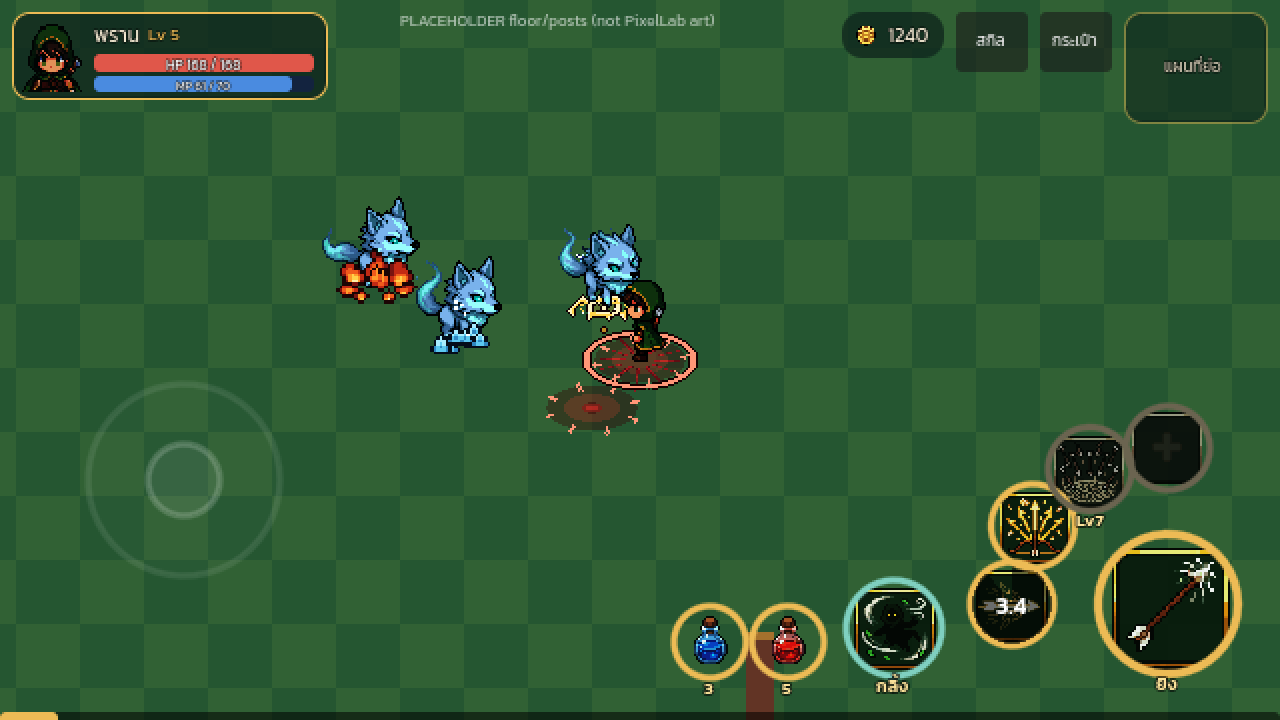
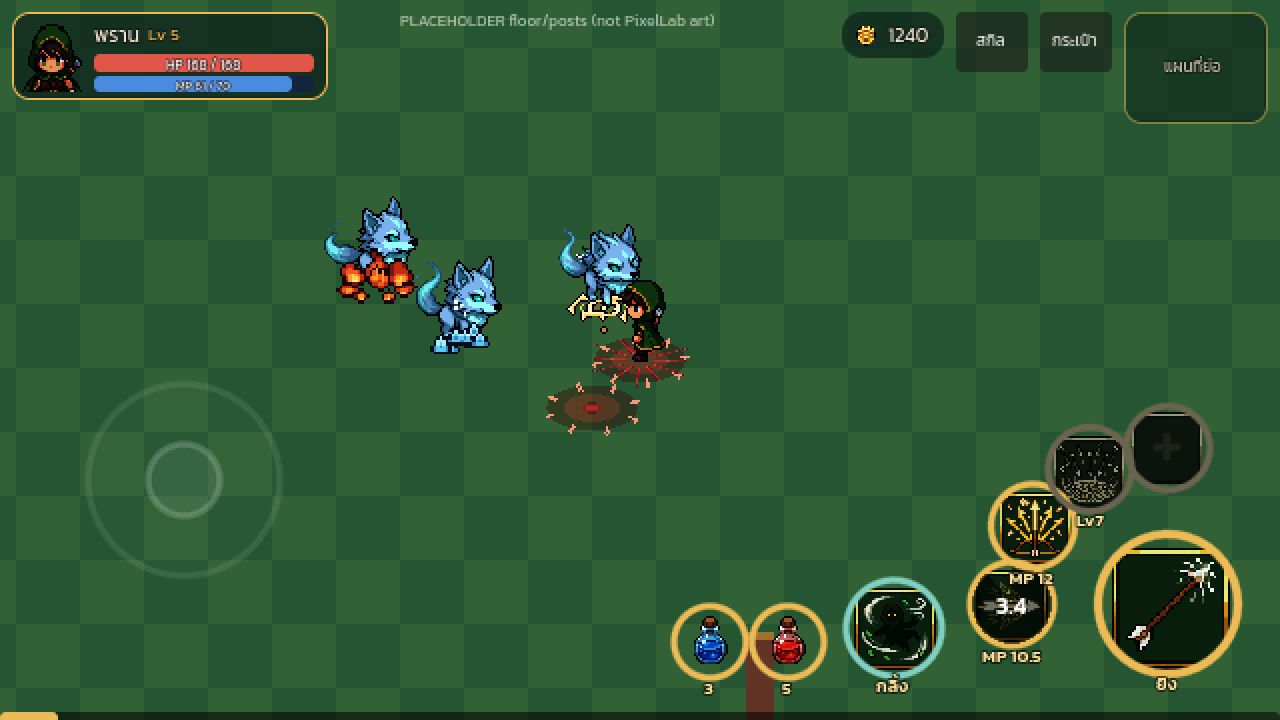
M3a review fixes: no lost gems on swap, no duplicate gem types, enhance closes with bag
- socket: decide room before anything moves; a single gem swaps into the same bag slot;
  a swap from a stack with a full bag is refused (nothing lost); same gem type twice in
  one skill refused
- piercing arrow tries its one bounce from the first target only
- closing the bag (I/B) closes the enhance window; it also consumes bag/skills keys
- strong gem level (10) from balance.json; UI texts built from data
- bag shows gem level/rarity/options/element with rarity borders
- HUD skill buttons show the real MP after gems
- Inventory.remove skips gem slots; plain element gem text
- 8 regression tests (all failed before); 203 pass

Claude-Session: https://claude.ai/code/session_01Y3xh1UrjSLruRTRK75Y2Tg

diff --git a/docs/superpowers/specs/2026-11-06-m3a-gems-enhance-design.md b/docs/superpowers/specs/2026-11-06-m3a-gems-enhance-design.md
@@ -35,7 +35,8 @@
 ### 5.1 ช่องและการใส่
 - ช่องตาม gems.md §3: เลเวลสกิล 1–9 = 1 ช่อง, 10+ = 2 ช่อง · สกิลที่ยังไม่ปลด (เลเวลสกิล 0) ใส่ไม่ได้
 - แตะเจม → แตะช่อง · ช่องที่มีเจม = สลับ · ถอดฟรี เจมเก็บ EXP และออปชันไว้ · ใส่ได้เฉพาะป้ายตรงกัน
-- ถอดเจมตอนกระเป๋าเต็ม: ไม่ให้ถอด ขึ้น "กระเป๋าเต็ม" (เหมือนถอดอุปกรณ์) · การสลับทำได้เสมอ
+- ถอดเจมตอนกระเป๋าเต็ม: ไม่ให้ถอด ขึ้น "กระเป๋าเต็ม" (เหมือนถอดอุปกรณ์) · การสลับกับเจมที่อยู่ช่องเดี่ยวทำได้เสมอ (เจมเก่าเข้าช่องเดิม) **แต่สลับกับเจมที่ซ้อนเป็นกองตอนกระเป๋าเต็มไม่ได้** เพราะเจมเก่าไม่มีที่ลง **[ผมเลือกเอง หลังรีวิว]**
+- สกิลเดียวใส่เจมชนิดซ้ำกันไม่ได้ ("เจมชนิดนี้ใส่ในสกิลนี้แล้ว") **[ผมเลือกเอง หลังรีวิว]**
 - เกมหยุดตอนเปิดหน้านี้ **[ผมเลือกเอง]** เหมือนกระเป๋า
 
 ### 5.2 ผลของเจม (ค่าที่ เจม Lv1 · "+x ต่อเลเวล" = บวกเพิ่มทีละ x จุดต่อเลเวลที่เกิน 1 เช่น ทวีคูณ Lv3 = ×1.37)

diff --git a/docs/superpowers/plans/2026-11-06-m3a-gems-enhance.md b/docs/superpowers/plans/2026-11-06-m3a-gems-enhance.md
@@ -161,4 +161,4 @@
 - [x] **Step 1:** Shots: skill screen with a socketed gem · piercing + แยกศร three lines · burn / frost / chain on wolves · enhance safe and risky · bag name with +N. Look at each.
 - [x] **Step 2:** `python3 tools/test_assets.py` PASS · full suite 0 failed · `touch_check.gd` PASS · M2a/M2b/M2c/M3a screenshot scripts rc=0.
 - [x] **Step 3:** Push `m3a/gems-enhance`, draft PR to `main` with commands, SHA, counts, tagged Thai summary.
-- [ ] **Step 4:** Fresh reviewer on the branch; fix findings with regression tests; report to the owner in Thai with group tags.
+- [x] **Step 4:** Fresh reviewer on the branch; fix findings with regression tests; report to the owner in Thai with group tags.
